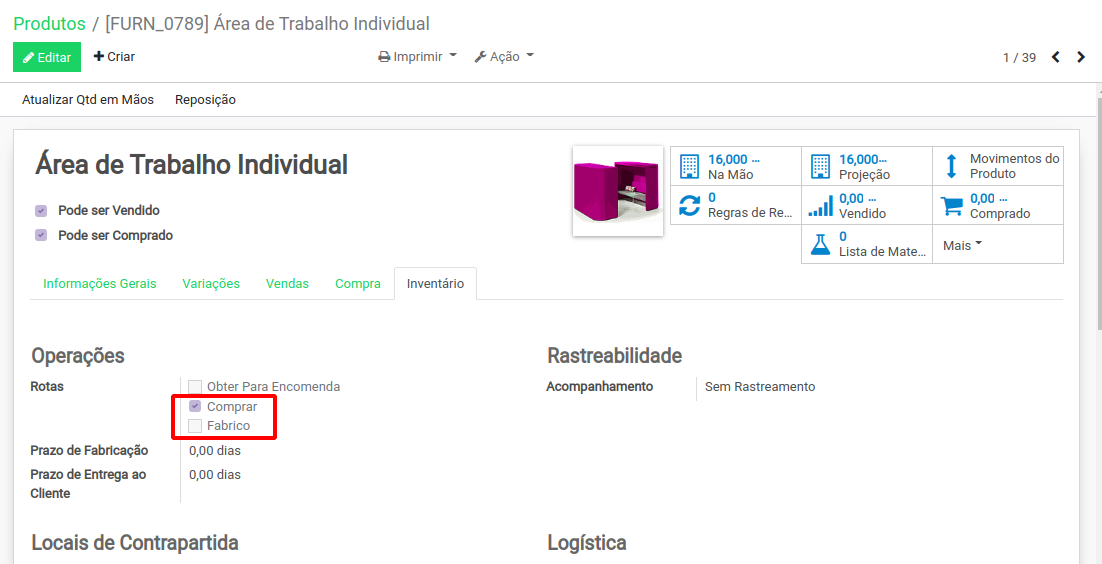
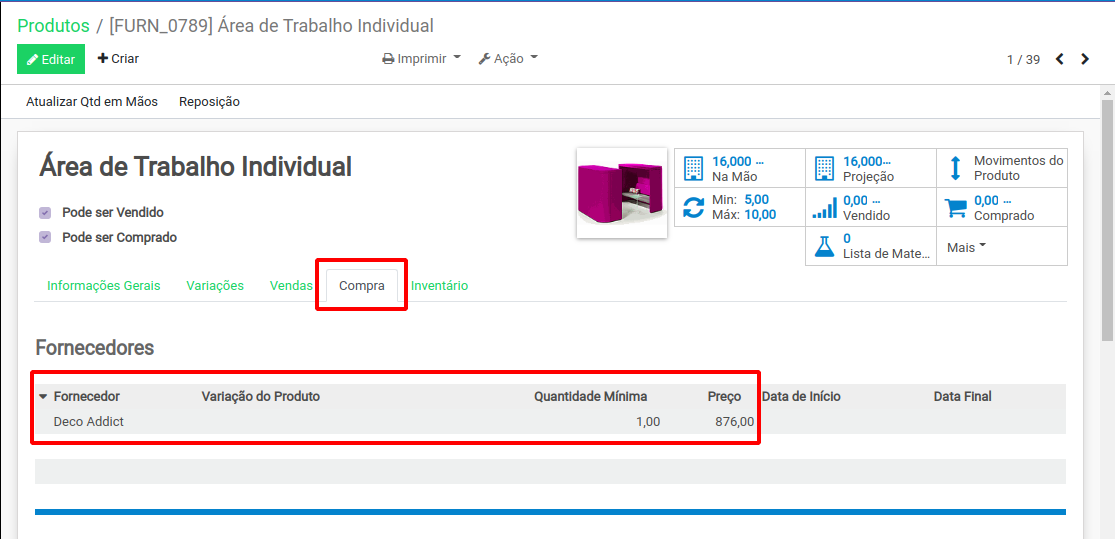
GitBook: [pt] 93 pages and 9 assets modified

diff --git a/inventario/rotas-de-fornecimento-de-produtos.md b/inventario/rotas-de-fornecimento-de-produtos.md
@@ -4,22 +4,41 @@ description: >-
   no seu estoque.
 ---
 
-# Rotas de produtos
+# Rotas de fornecimento de produtos
 
-Com os módulos principais de Odoo \(Venda, Compra, Inventário e Manufatura\) aparece 3 opções de "Rotas", ou seja maneiras de aumentar o estoque do produto até uma certa quantidade :
+Com os módulos principais de Odoo \(_Venda_, _Compra_, _Inventário_ e _Manufatura_\) aparece 3 opções de "Rotas" na ficha de cada produto. Uma rota é uma maneiras de aumentar o estoque do produto até uma certa quantidade :
 
-![](../.gitbook/assets/image%20%28213%29.png)
+![](../.gitbook/assets/image%20%28219%29.png)
 
 É muito importante entender a diferença entre as rotas que determinam **COMO** será realizado o ajuste de estoque e as rotas que determinam **QUANDO** será realizado esse ajuste.
 
-Assim, "_Comprar_" é o contrário de "_Fabrico_" e determina **COMO vai ser aumentado** a quantidade produto.   
-A opção "Comprar" indica que o produto vai ter que ser **comprado** \(pela criação automática de uma _Solicitação de Cotação_\) enquanto "Fabrico" indica que o produto vai ter que ser **fabricado** \(pela criação automática de um _Ordem de Produção_\) no momento que precisar aumentar a quantidade dele.
+As opções "_Comprar_" e "_Fabrico_" determinam **COMO será aumentado** a quantidade do produto :
 
-* D"_Obter para Encomenda_" \(tradução de _Make to Order - MTO_ em inglês\) é o contrário de "_Obter para Estoque_" \(tradução de _Make to Stock - MTS_\), que é a opção padrão se "_Obter para Encomenda_" não for selecionado. Isso determina **QUANDO vai precisar aumentar** a quantidade do produto. Se for quando uma venda desse produto for confirmada \(no caso da opção "Obter para Encomen
+* A opção "_Comprar_" indica que o produto vai ter que ser **comprado** \(pela criação automática de uma _Solicitação de Cotação_ no menu de _Compra_\)
+*  A opção "_Fabrico_" indica que o produto vai ter que ser **fabricado** \(pela criação automática de um _Ordem de Produção_ no menu de _Manufatura_\)
+
+A opção "_Obter para Encomenda_" \(tradução de _Make to Order - MTO_ em inglês\) determina **QUANDO será aumentado** a quantidade do produto :
+
+* Se for selecionada, o aumento da quantidade do produto \(que seja por _Solicitação de Cotação_, _Ordem de Produção_ ou qualquer outra maneira\) será acionado **quando uma venda desse produto for confirmada**.
+* Se não for selecionada quer dizer que a opção padrão "_Obter para Estoque_" \(tradução de _Make to Stock - MTS_\) está ativa. Nesse caso o aumento da quantidade do produto será acionado **quando o estoque do produto passar embaixo de uma certa quantidade** mínima, definida no objeto _Regra de Recompra_ ligado ao produto :
+
+![](../.gitbook/assets/image%20%28218%29.png)
+
+![](../.gitbook/assets/image%20%28217%29.png)
+
+{% hint style="warning" %}
+Apesar do que o nome pode sugerir uma _Regra de Recompra_ não ativa necessariamente uma "**compra**" do produto para chegar na quantidade desejada.
+
+Pode ativar uma "**fabricação**" do produto ou qualquer outra maneira de fornecimento definida pela Rota que indica "COMO" será aumentada essa quantidade de produto.
+{% endhint %}
 
 ## "Compra" vs "Fabrico"
 
-![](../.gitbook/assets/image%20%28212%29.png)
+Para que a rota "_Compra_" seja operacional, necessita pelo menos informar um fornecedor na aba "Compra" do produto :
 
-A quantidade
+![](../.gitbook/assets/image%20%28213%29.png)
+
+Do outro lado, para que a rota "Fabrico" seja operacional é necessário definir uma "Lista de Material" associada ao produto :
+
+![](../.gitbook/assets/image%20%28215%29.png)
 

diff --git a/SUMMARY.md b/SUMMARY.md
@@ -19,7 +19,7 @@
 
 ## 📦 Inventário
 
-* [Rotas de produtos](inventario/rotas-de-fornecimento-de-produtos.md)
+* [Rotas de fornecimento de produtos](inventario/rotas-de-fornecimento-de-produtos.md)
 
 ## 🧾 Faturamento
 
